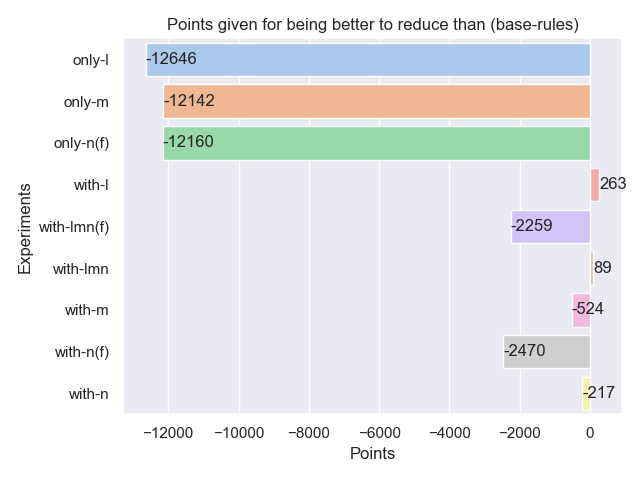
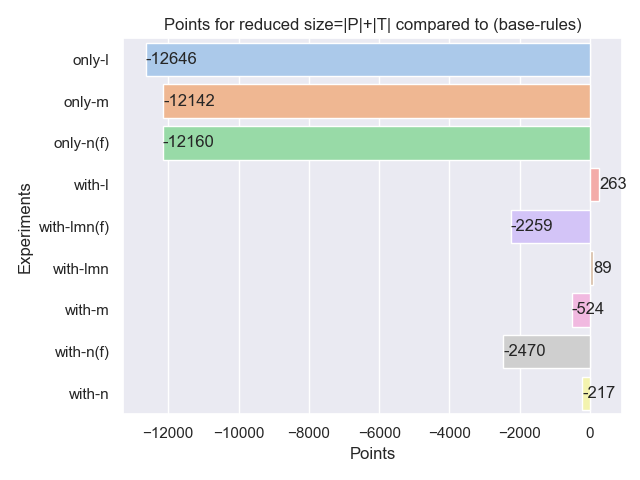
better title

Changed region(s): [[0.25, 0.0312, 0.9062, 0.0625]]

diff --git a/graph_utility/reduction_points.py b/graph_utility/reduction_points.py
@@ -88,7 +88,7 @@ def plot(data_list, test_names, graph_dir, experiment_to_compare_against_name):
     plot = sns.barplot(x='sums', y='names', data=points_df)
     plt.xlabel("Points")
     plt.ylabel('Experiments')
-    plt.title(f'Points given for being better to reduce than ({experiment_to_compare_against_name})')
+    plt.title(f'Points for reduced size=|P|+|T| compared to ({experiment_to_compare_against_name})')
     plt.tight_layout()
     # This for-loop puts the number of times each rule has been used, on top of the bar
     for p in plot.patches:

diff --git a/graph_utility/all_graphs.py b/graph_utility/all_graphs.py
@@ -48,9 +48,8 @@ def plot_all(data_list, test_names, graph_dir, correct_results_name):
     metrics = ['time', 'memory']
     for metric in metrics:
         time_memory.plot(data_list, test_names, graph_dir, metric)
-        pass
-        graphs_made = graphs_made + 1
-        print(f"{graphs_made}/{num_graphs} graphs done")
+    graphs_made = graphs_made + 1
+    print(f"{graphs_made}/{num_graphs} graphs done")
 
     reduction_points.plot(data_list, test_names, graph_dir, correct_results_name)
     graphs_made = graphs_made + 1
